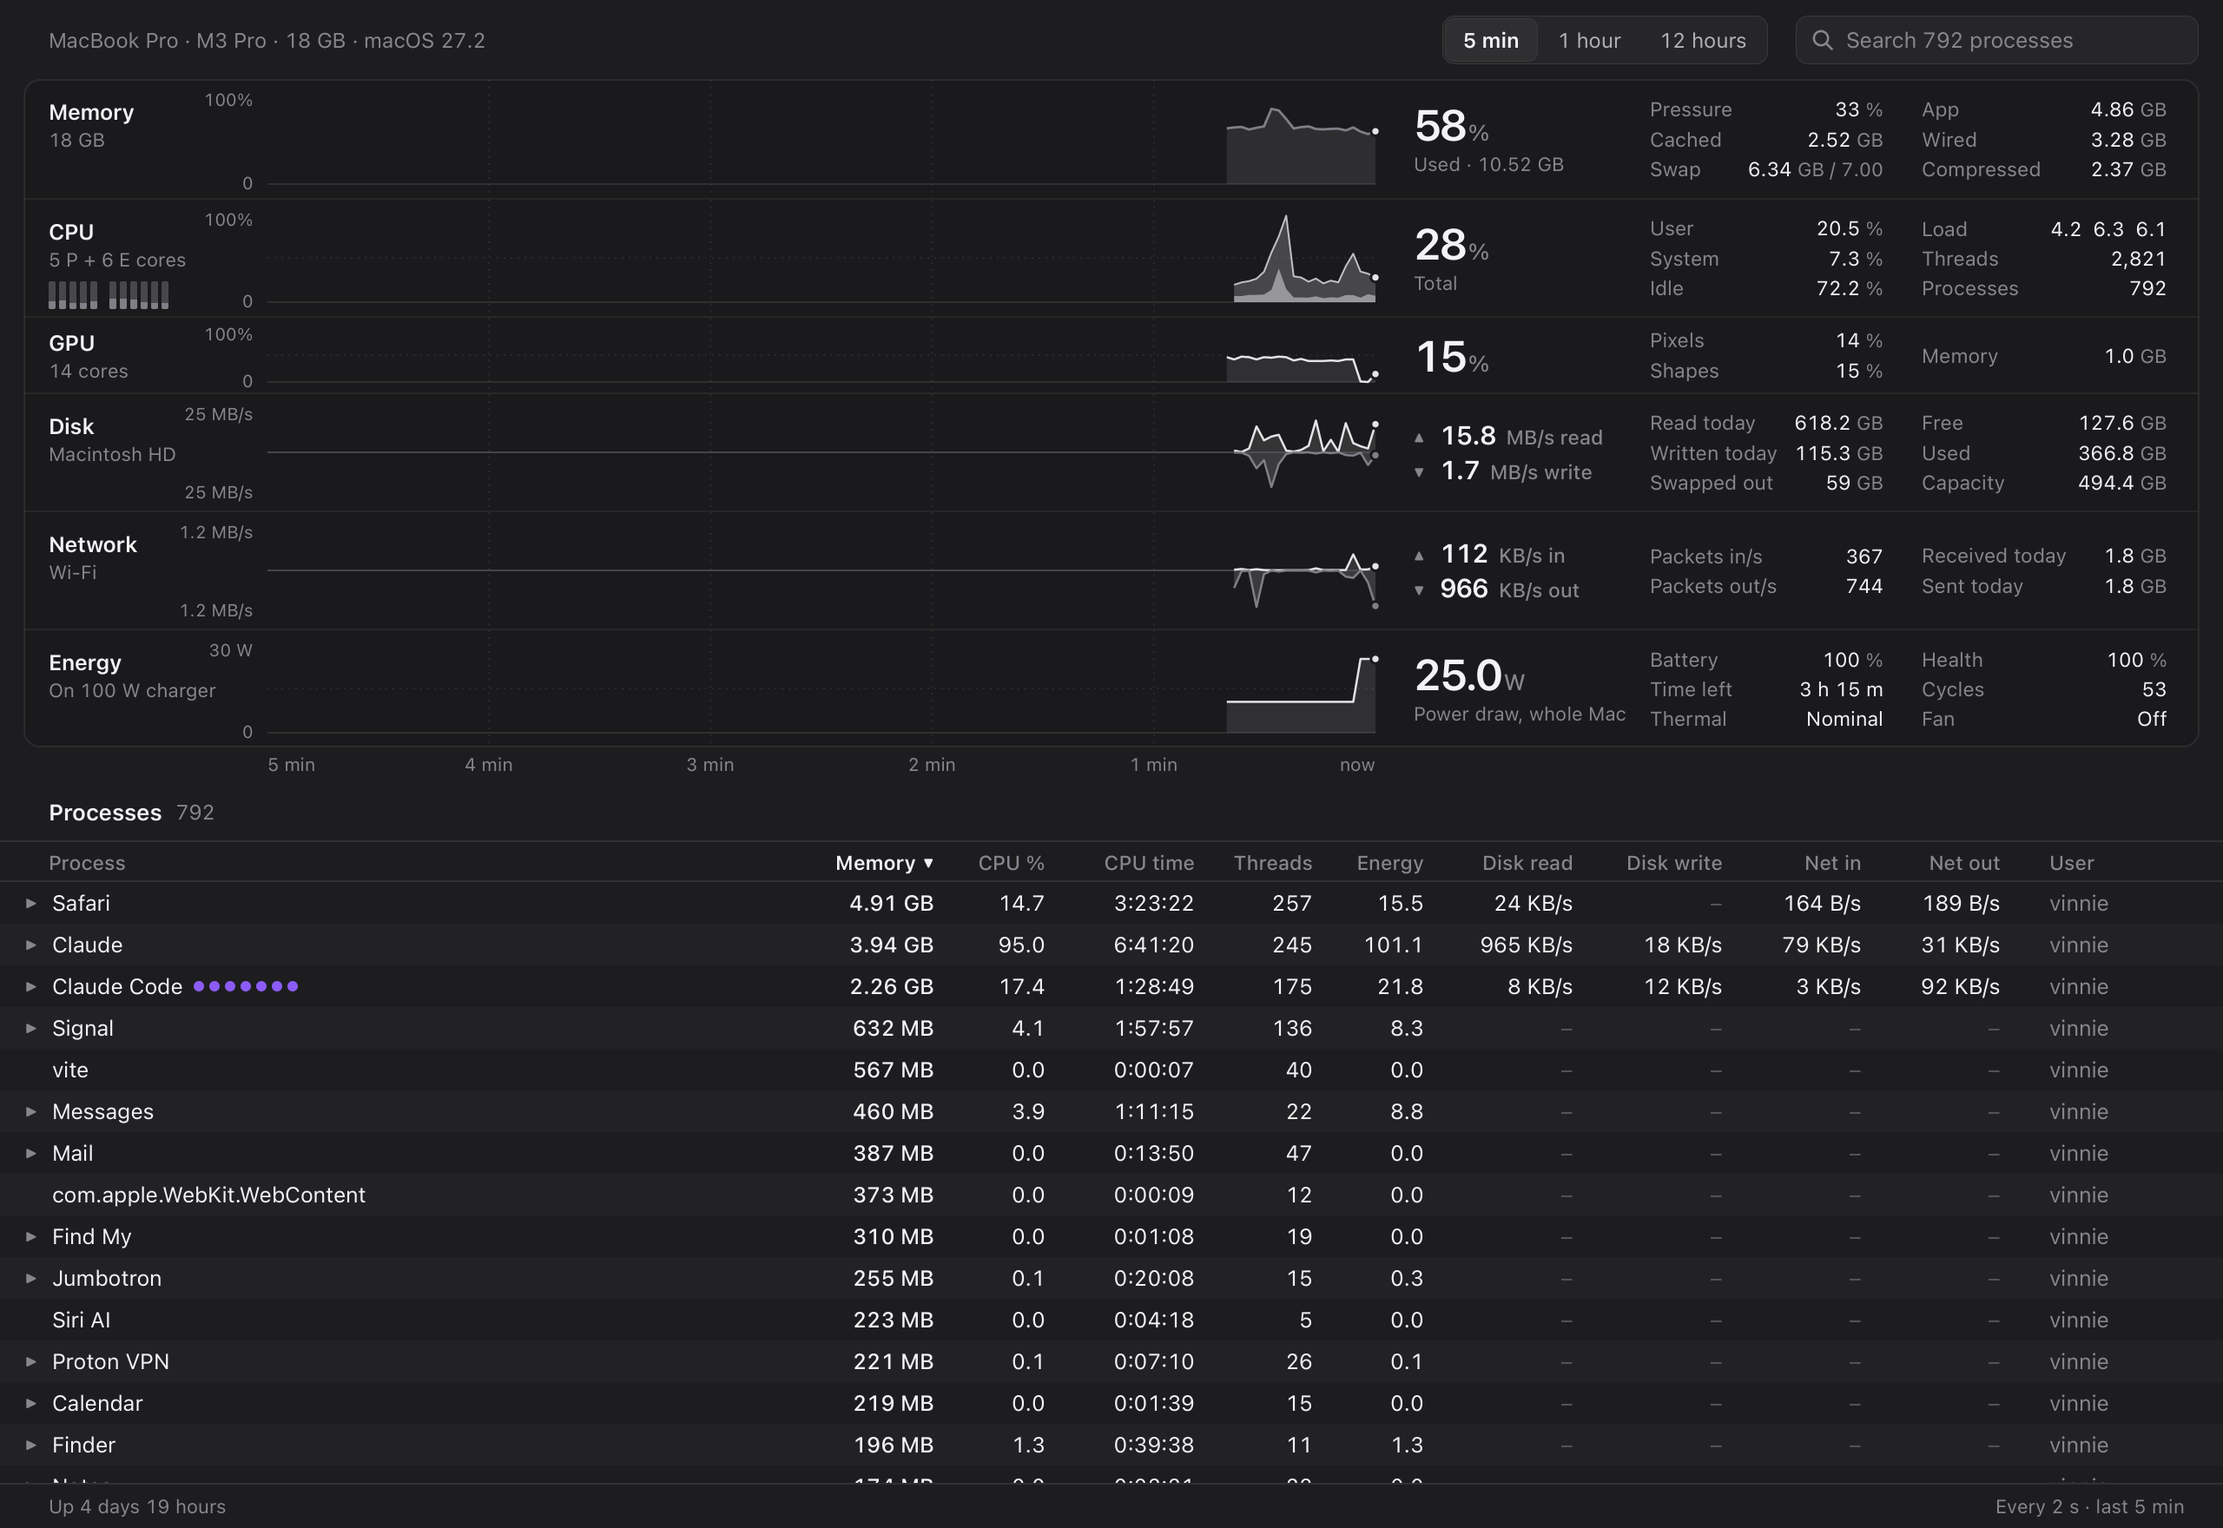
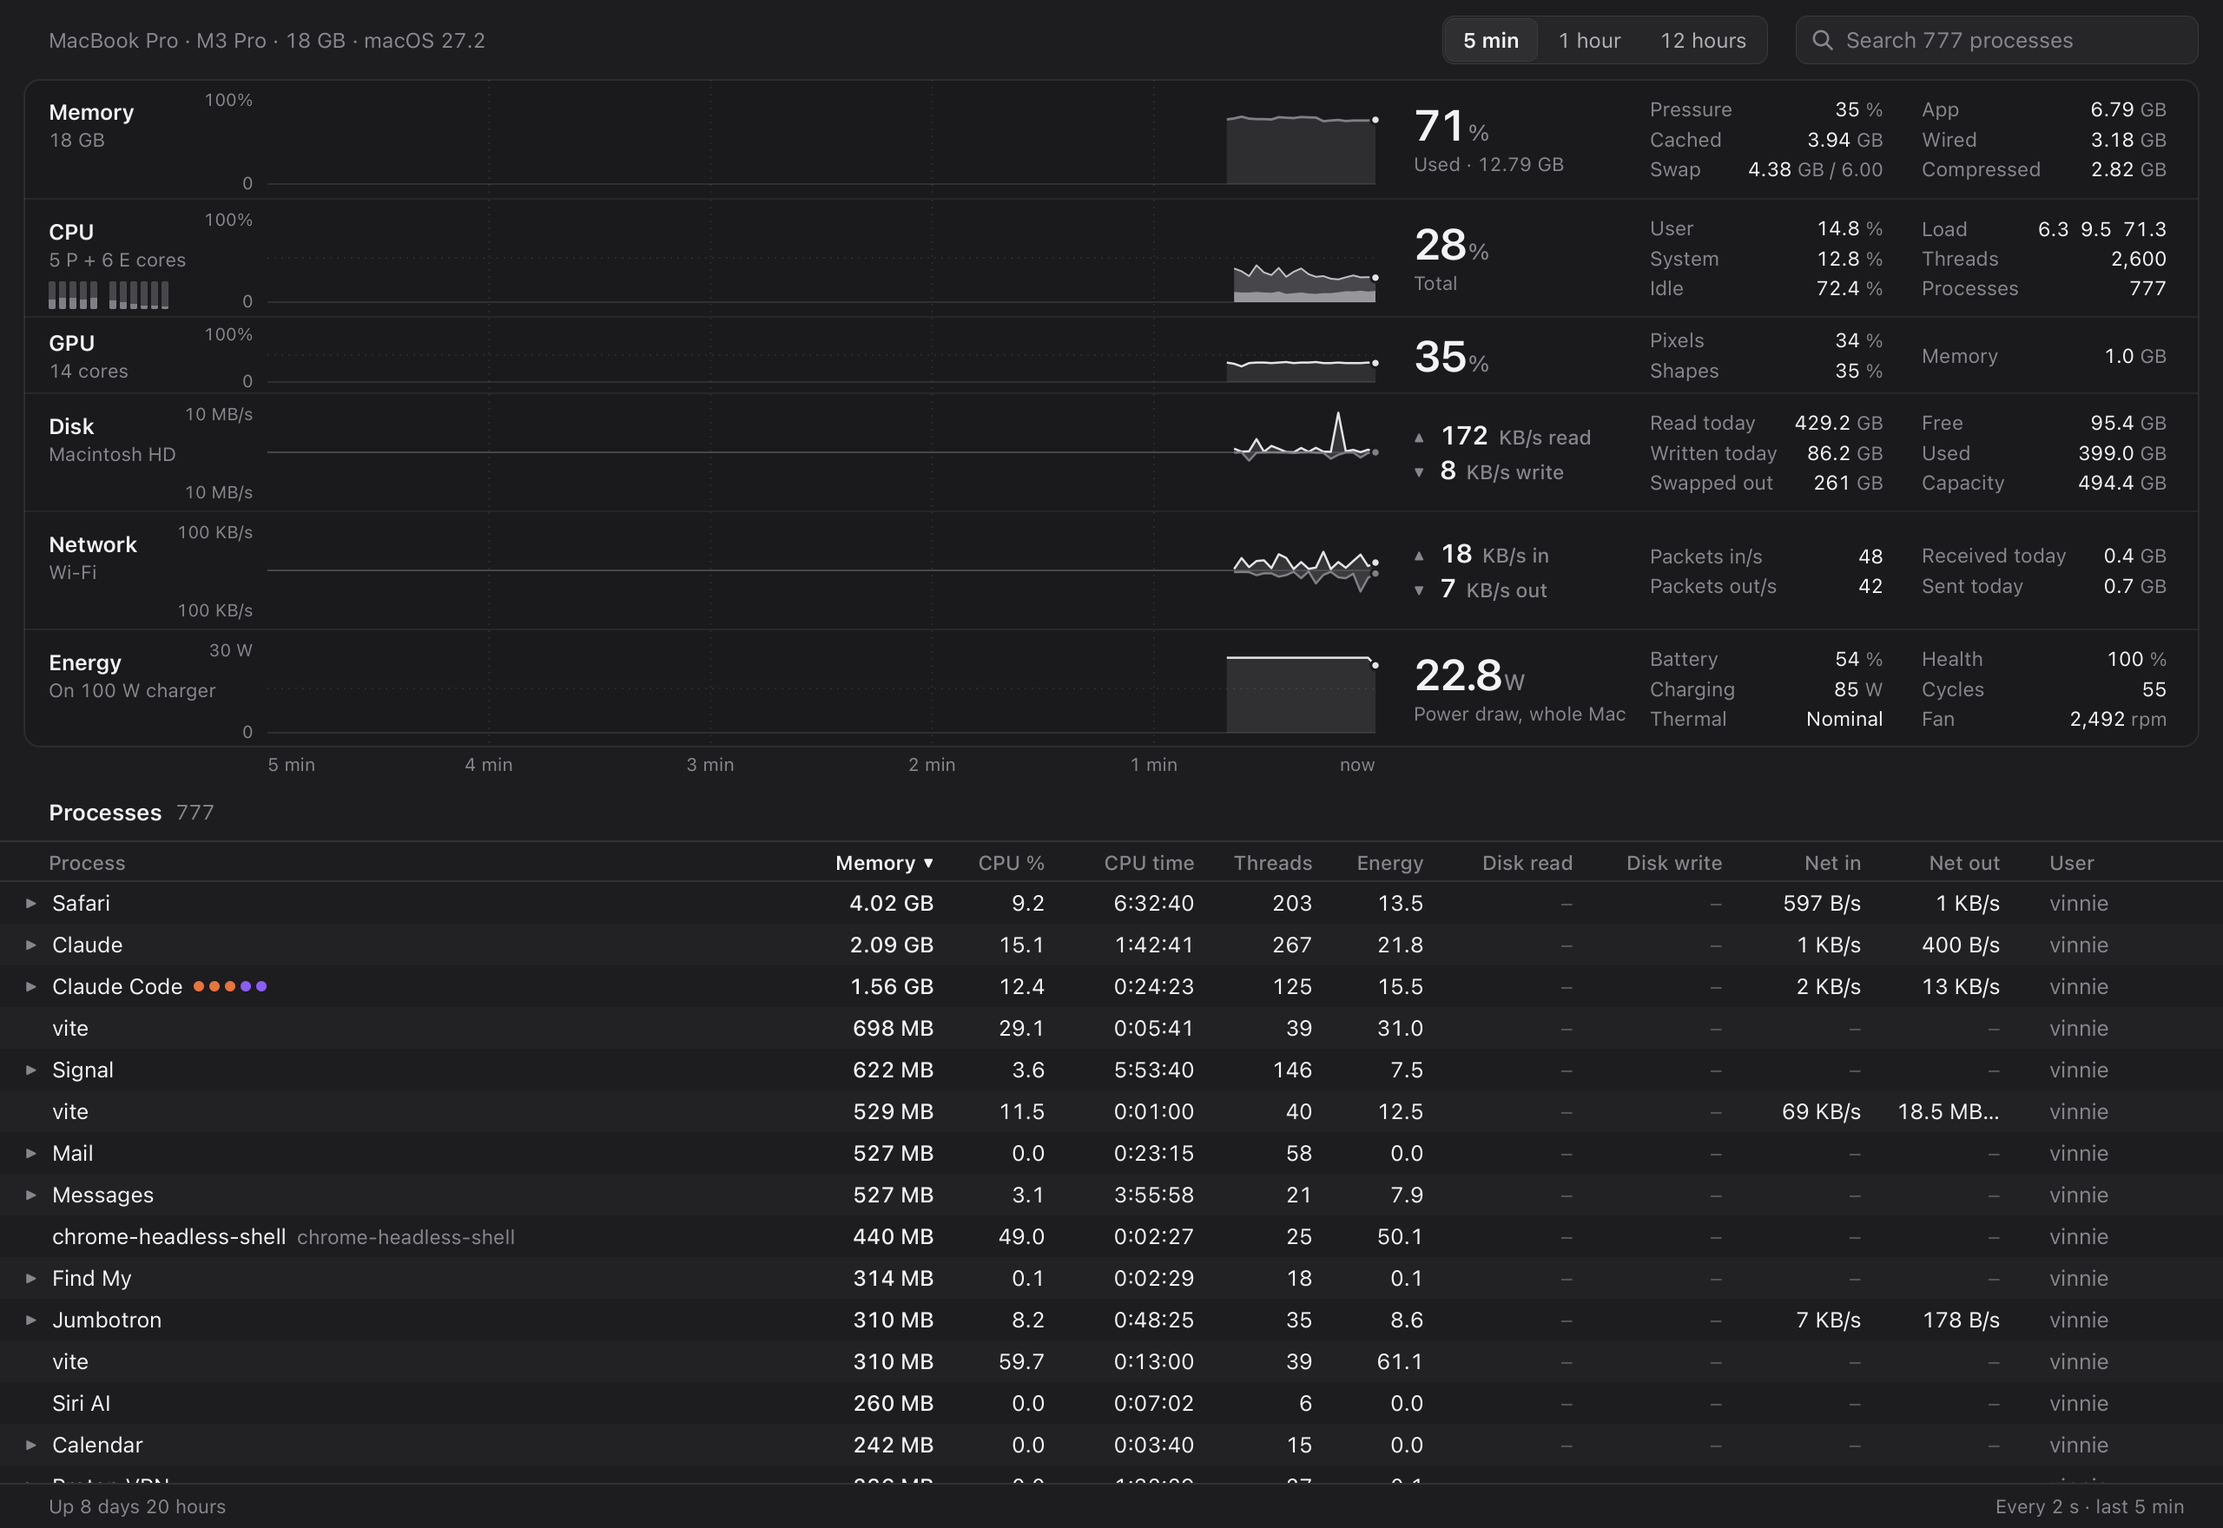
Show charging watts in the popover and window
Reads PowerTelemetryData SystemPowerIn alongside SystemLoad: "Charging 85 W" (or "Charger 30 W" when the
battery isn't charging) as a third Energy line in the popover, and in the window's Time left slot while
plugged in. Help term, DATA, README, HANDOFF, selftest check, doc shots.

diff --git a/Resources/help.html b/Resources/help.html
@@ -147,6 +147,8 @@ p.body b{color:var(--ink);font-weight:600}
       term("Cached files", "Recently used files kept in memory for speed. macOS gives it back the moment an app needs it.", "Yours: <b>" + F.gb(m.cachedBytes) + " GB</b>"),
       term("Power draw", "How much power your whole Mac is using right now, in watts (W), as the Energy chart shows it. Everyday work is roughly 5 to 15 W; heavy work goes well past that. On battery, higher drains it faster. Macs without a battery can't measure this, so their Energy chart shows the energy score instead.",
         "Yours: <b>" + (V.isNum(e.watts) ? e.watts.toFixed(1) + " W" : "–") + "</b>"),
+      term("Charging", "While plugged in, how much power the charger is putting in right now, in watts. It covers what the Mac uses plus whatever goes into the battery, so it's usually well under the charger's rating, and it drops as the battery fills. Once the battery is full (or held at a limit) it reads \"Charger\" instead: then it only runs the Mac.",
+        "Yours: <b>" + (e.pluggedIn && V.isNum(e.chargerW) ? Math.round(e.chargerW) + " W" : V.isNum(e.batteryPct) && !e.pluggedIn ? "on battery" : "–") + "</b>"),
       term("GPU", "The graphics chip. Pixels is how busy the part that colors pixels and runs effects is; Shapes is the part that works out shapes and where they go on screen. Memory is what the GPU holds right now, out of the same RAM your apps use (Apple chips share it).",
         "Yours: <b>" + F.pct(g.pct) + "% · Pixels " + F.pct(g.rendererPct) + "% · Shapes " + F.pct(g.tilerPct) + "% · " + F.gb(g.memBytes, 1) + " GB</b>"),
       term("Energy impact", "A rough score for one app, in the Energy column of the app list. It has no unit: 100 is about one CPU core kept fully busy. Higher drains the battery faster. Over 20 for one app is a lot.",

diff --git a/Sources/Vitals/Sampler.swift b/Sources/Vitals/Sampler.swift
@@ -111,20 +111,21 @@ final class Sampler: @unchecked Sendable {
     }
 
     /// The energy block. The battery's details and the fan are read when `fresh` (a page shows, or the first sample);
-    /// the watts every time (one property), so the Energy chart is full when a page opens, like the others.
+    /// the watts (the Mac's and the charger's) every time (one property), so the Energy chart is full when a page opens, like the others.
     private func energySection(fresh: Bool, impact: Any) -> [String: Any] {
         if fresh || power == nil {
             power = Power.read()
             if let rpm = Fan.rpm(), rpm.isFinite, rpm < 100_000 { fanRPM = Int(rpm.rounded()) } else { fanRPM = NSNull() }
         }
-        let p = power ?? Power.Reading()
+        let p = power ?? Power.Reading(), tele = Power.telemetry()
         return [
             "batteryPct": p.batteryPct ?? NSNull(), "pluggedIn": p.pluggedIn ?? NSNull(),
             "charging": p.charging ?? NSNull(), "fullyCharged": p.fullyCharged ?? NSNull(),
             "adapterWatts": p.adapterWatts ?? NSNull(), "cycles": p.cycles ?? NSNull(),
             "healthPct": p.healthPct ?? NSNull(), "minutesLeft": p.minutesLeft ?? NSNull(),
             "thermal": Power.thermal(), "fanRPM": fanRPM,
-            "impact": impact, "watts": num(Power.watts(), 1),
+            "impact": impact, "watts": num(tele.load, 1),
+            "chargerW": p.pluggedIn == true ? num(tele.fromCharger, 1) : NSNull(),
         ]
     }
     func saveState() { queue.sync { daily.save() } }

diff --git a/Sources/Vitals/Devices.swift b/Sources/Vitals/Devices.swift
@@ -24,12 +24,19 @@ enum Power {
     private static let lock = NSLock()
     nonisolated(unsafe) private static var battery: io_service_t = 0
     nonisolated(unsafe) private static var batteryLooked = false
-    static func watts() -> Double? {
+    static func watts() -> Double? { telemetry().load }
+
+    /// `load` as above, and `fromCharger`: what the charger is putting in right now in W (SystemPowerIn: the Mac's
+    /// draw plus whatever goes into the battery), nil on battery. One property read for both.
+    static func telemetry() -> (load: Double?, fromCharger: Double?) {
         lock.lock(); defer { lock.unlock() }
         if !batteryLooked { batteryLooked = true; battery = IOServiceGetMatchingService(kIOMainPortDefault, IOServiceMatching("AppleSmartBattery")) }
-        guard battery != 0, let tele = Registry.property(battery, "PowerTelemetryData") as? [String: Any],
-              let mW = tele["SystemLoad"] as? Int, mW > 0, mW < 1_000_000 else { return nil }
-        return (Double(mW) / 100).rounded() / 10
+        guard battery != 0, let tele = Registry.property(battery, "PowerTelemetryData") as? [String: Any] else { return (nil, nil) }
+        func w(_ key: String) -> Double? {
+            guard let mW = tele[key] as? Int, mW > 0, mW < 1_000_000 else { return nil }
+            return (Double(mW) / 100).rounded() / 10
+        }
+        return (w("SystemLoad"), w("SystemPowerIn"))
     }
 
     static func read() -> Reading {

diff --git a/Resources/popover.html b/Resources/popover.html
@@ -106,10 +106,12 @@ hr{border:0;border-top:1px solid var(--line);margin:5px 10px}
     set("r-net", two(V.now(n.inBps, L.netInBps), "in", V.now(n.outBps, L.netOutBps), "out"));
     // watts with a battery; the energy impact score on Macs without one
     // the label rides on the big number ("W draw", like Memory's "% used"), then the fan (only where it can be
-    // read; "off" when it isn't spinning). No battery line: macOS's own menu bar icon already shows it.
+    // read; "off" when it isn't spinning), then while plugged in what the charger is putting in ("Charging 85 W";
+    // "Charger 30 W" when it only runs the Mac). No battery line: macOS's own menu bar icon already shows it.
     var useW = V.useWatts(s, L), pw = useW ? V.now(e.watts, L.powerW) : V.now(e.impact, L.energyImpact);
     set("r-energy", "<b>" + (isNum(pw) ? pw.toFixed(1) : "–") + "<small>" + (useW ? " W draw" : " score") + "</small></b>" +
-      (isNum(e.fanRPM) ? "<span>Fan " + (e.fanRPM > 0 ? F.int(e.fanRPM) + " rpm" : "off") + "</span>" : ""));
+      (isNum(e.fanRPM) ? "<span>Fan " + (e.fanRPM > 0 ? F.int(e.fanRPM) + " rpm" : "off") + "</span>" : "") +
+      (e.pluggedIn && isNum(e.chargerW) ? "<span>" + (e.charging ? "Charging " : "Charger ") + Math.round(e.chargerW) + " W</span>" : ""));
 
     var tot5 = m.totalBytes || h.memBytes || 1;
     set("top5", top5(s).map(function (t) {

diff --git a/Resources/window.html b/Resources/window.html
@@ -344,7 +344,9 @@ table.pt{width:100%;border-collapse:collapse;table-layout:fixed;font-size:12.5px
     $("sub-energy").textContent = e.pluggedIn ? (e.adapterWatts ? "On " + e.adapterWatts + " W charger" : "On power") : hasBatt ? "On battery" : "";
     var pw = useW ? V.now(e.watts, L.powerW) : V.now(e.impact, L.energyImpact);
     CH[5].ro.innerHTML = bigOne(isNum(pw) ? pw.toFixed(1) : "–", useW ? "W" : "", useW ? "Power draw, whole Mac" : "Energy score") +
-      kv([hasBatt && ["Battery", u(F.pct(e.batteryPct), "%")], hasBatt && ["Time left", isNum(e.minutesLeft) ? F.hm(e.minutesLeft).replace(" min", " m") : "–"], ["Thermal", thermal]]) +
+      // plugged in, what the charger puts in takes the Time left row (that's only a what-if then), so both columns stay 3 rows
+      kv([hasBatt && ["Battery", u(F.pct(e.batteryPct), "%")],
+        e.pluggedIn && isNum(e.chargerW) ? [e.charging ? "Charging" : "Charger", u(Math.round(e.chargerW), "W")] : hasBatt && ["Time left", isNum(e.minutesLeft) ? F.hm(e.minutesLeft).replace(" min", " m") : "–"], ["Thermal", thermal]]) +
       kv([hasBatt && ["Health", u(F.pct(e.healthPct), "%")], hasBatt && ["Cycles", F.int(e.cycles)],
         isNum(e.fanRPM) && ["Fan", e.fanRPM > 0 ? u(F.int(e.fanRPM), "rpm") : "Off"]]);
   }

diff --git a/Sources/Vitals/SelfTest.swift b/Sources/Vitals/SelfTest.swift
@@ -342,6 +342,10 @@ enum SelfTest {
         let e = got["energy"] as? [String: Any] ?? [:], w = (e["watts"] as? NSNumber)?.doubleValue
         check("kick: ...and the whole Mac's watts, where there's a battery", !(e["batteryPct"] is NSNumber) || (w.map { $0 > 0.3 && $0 < 400 } ?? false),
               "watts \(String(describing: e["watts"]))")
+        let cw = (e["chargerW"] as? NSNumber)?.doubleValue
+        check("kick: ...and the charger's watts only while plugged in", e["pluggedIn"] as? Bool == true
+              ? (cw.map { $0 > 0.3 && $0 < 400 } ?? (Power.telemetry().fromCharger == nil)) : e["chargerW"] is NSNull,
+              "pluggedIn \(String(describing: e["pluggedIn"])), chargerW \(String(describing: e["chargerW"]))")
         check("kick: ...but no rates over a few ms", got["time"] as? String == restEnd["time"] as? String && read(got) != nil
               && read(got) == read(restEnd) && points(got) == points(restEnd),
               "readBps \(String(describing: read(restEnd))) -> \(String(describing: read(got))), points \(points(restEnd) ?? -1) -> \(points(got) ?? -1)")

diff --git a/Resources/sample.js b/Resources/sample.js
@@ -40,7 +40,7 @@
       history: series(120, 3, function (t, r) { return 31 + Math.sin(t * 9) * 5 + (r() - .5) * 12; })
     },
     gpu: { pct: 9, rendererPct: 8, tilerPct: 9, memBytes: 0.92 * G, history: series(120, 5, function (t, r) { return 8 + (r() - .5) * 6 + (t > .7 && t < .75 ? 7 : 0); }) },
-    energy: { watts: 14.2, batteryPct: 100, pluggedIn: true, charging: false, fullyCharged: true, adapterWatts: 96, cycles: 47, healthPct: 100,
+    energy: { watts: 14.2, chargerW: 61.8, batteryPct: 82, pluggedIn: true, charging: true, fullyCharged: false, adapterWatts: 96, cycles: 47, healthPct: 100,
       minutesLeft: 380, thermal: "nominal", fanRPM: 0, impact: null },
     disk: { volume: "Macintosh HD", totalBytes: 494.4e9, usedBytes: 400.1e9, freeBytes: 94.3e9, readBps: 14.2e6, writeBps: 38.6e6,
       readTodayBytes: 61.2e9, writtenTodayBytes: 97.4e9,

diff --git a/HANDOFF.md b/HANDOFF.md
@@ -1,7 +1,17 @@
 # Vitals — handoff
 
-_Last updated 2026-10-31 by Claude: lid-shut sampling, the window's 5 min / 1 hour / 12 hours switch and more GPU
-detail shipped in 3c3cdbe (Vinnie: "commit push and ship"), installed. Open: a real lid-shut stretch on the Mac. Open: check the watts while plugged in (needs a screenshot)._
+_Last updated 2026-11-05 by Claude: charging watts in the popover and window built and checked, waiting on Vinnie's
+OK to ship. Shipped before that: 3c3cdbe. Open: a real lid-shut stretch on the Mac._
+
+## 2026-11-05: charging watts (Vinnie: "go ahead with that please"; built and checked, NOT committed yet)
+- `Power.telemetry()` reads PowerTelemetryData once for both SystemLoad (the Mac's draw, `watts`) and SystemPowerIn
+  (what the charger puts in: the Mac's draw plus into the battery). The energy block adds `chargerW`, null unless
+  plugged in; read every tick like the watts.
+- Popover Energy row: a third line "Charging 85 W" while charging, "Charger 30 W" when plugged in but not charging
+  (full or held at a limit). Window Energy readout: while plugged in the "Charging" / "Charger" row takes the Time
+  left row (plugged in that was only a what-if estimate), so both columns stay 3 rows. Help term "Charging".
+- Checked: live dump on Vinnie's Mac while charging: watts 22.5, chargerW 84.7 (100 W charger). Worst-case width
+  "Charging 140 W" starts at 254 px vs the plot's right edge 222; selftest (new charger check), test-pages pass.
 
 ## 2026-10-31: more GPU detail (Vinnie: "like the CPU tab and memory tab"; shipped 3c3cdbe)
 - `GPU.stats()` (Devices.swift) reads the IOAccelerator's Device / Renderer / Tiler Utilization % and "In use system

diff --git a/README.md b/README.md
@@ -11,7 +11,8 @@ A menu bar app that shows what Activity Monitor shows, with every stat up front 
   GPU reads % busy, the GPU's memory in use and its core count; the full window adds Pixels and Shapes, how busy
   its drawing and geometry halves are;
   Energy reads the whole Mac's power draw in watts ("W draw"), from the battery's own meter, then fan speed (rpm,
-  or "off"; left out on Macs with no readable fan). No battery % there: macOS's own icon shows it. Disk and
+  or "off"; left out on Macs with no readable fan), then while plugged in what the charger is putting in
+  ("Charging 85 W", or "Charger 30 W" once the battery is full). No battery % there: macOS's own icon shows it. Disk and
   Network say "read" / "write" and "in" / "out". In "Memory by app" (and the window's list) a loose process says in
   gray who started it ("Claude Code · folder", or an app), and `node` / `python3` are named after their script. Macs without a battery show the
   energy impact score there instead: no unit, 100 ≈ one CPU core fully busy, the same score as the app list's Energy column). **⌃⌥⌘V** (or Open Vitals, ⌘O) opens the full window. Its charts switch between the last 5 minutes, the last hour and

diff --git a/DATA.md b/DATA.md
@@ -59,6 +59,8 @@ unknown; the page shows "–".
     impact,                                  // sum of the top-level processes' energy right now (unitless score; 100 ≈ one core busy)
     watts                                    // the whole Mac's draw in W, one decimal: AppleSmartBattery PowerTelemetryData
                                              // SystemLoad (mW), read every tick (one property). Null with no battery
+    chargerW                                 // what the charger puts in right now in W, one decimal: PowerTelemetryData
+                                             // SystemPowerIn (the Mac's draw + into the battery). Null unless plugged in
   },
 
   disk: {
